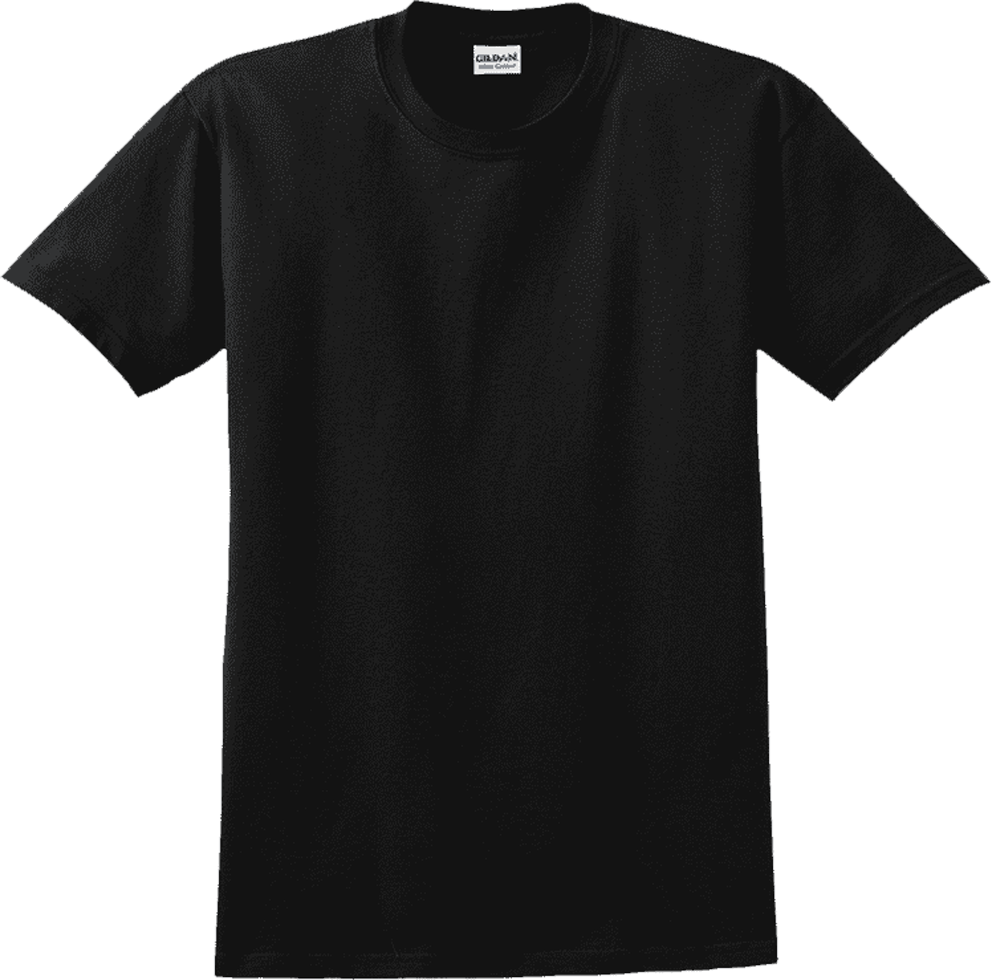
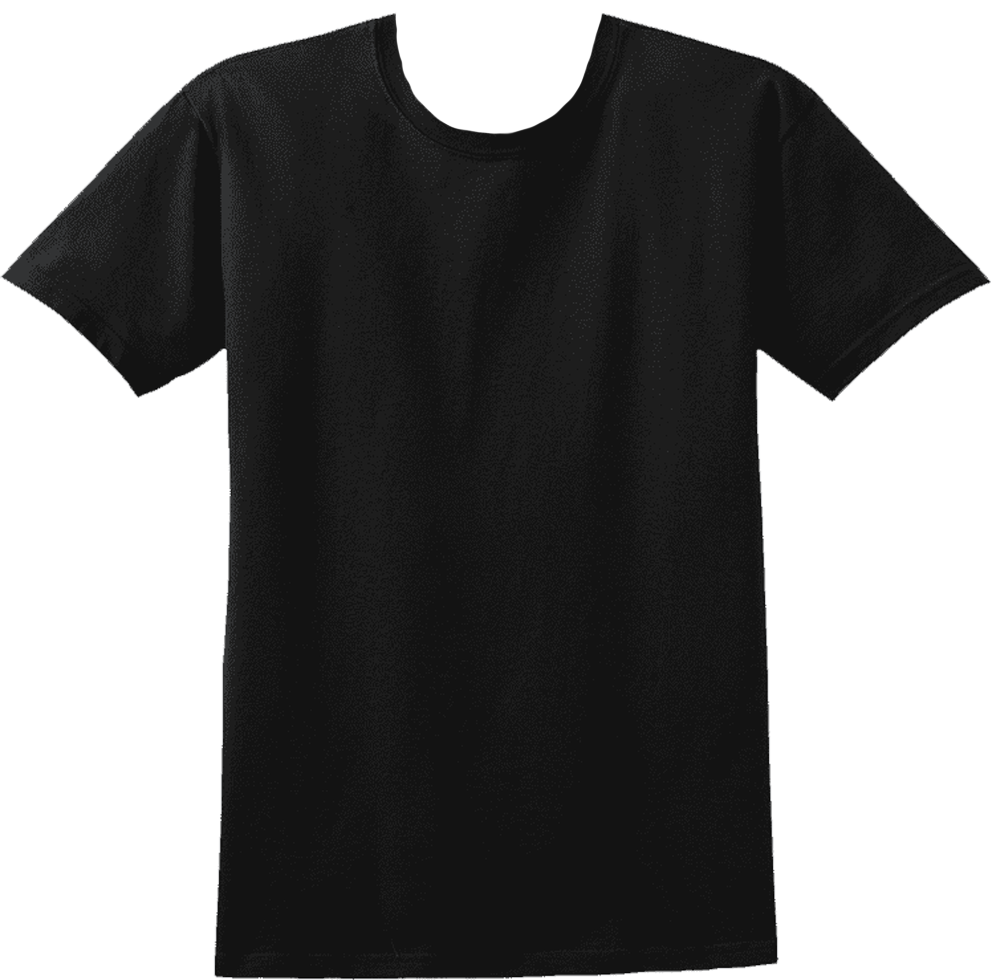
feat: add rotation and image scaling to the mapping; fix: change eslint config

Changed region(s): [[0.3935, 0.0, 0.6054, 0.1531]]

diff --git a/src/App.vue b/src/App.vue
@@ -3,7 +3,7 @@ import { onMounted, onBeforeMount } from "vue";
 import * as poseDetection from "@tensorflow-models/pose-detection";
 import "@tensorflow/tfjs-backend-webgl";
 
-const fps = 10;
+const fps = 20;
 let width: number; //640 - 1200 (real)
 let height: number; //480 - 675 (real)
 const detectorConfig = {
@@ -160,30 +160,30 @@ const showTshirt = (distance: number) => {
     const ctx: CanvasRenderingContext2D = canvas.getContext(
         "2d"
     ) as CanvasRenderingContext2D;
-    // const factor = distance / img.width;
-    // if (factor > 0) {
-    //     // console.log(factor);
-    //     // img.width = distance;
-    //     // img.height = img.height * factor;
-    //     ctx.scale(factor, 1);
-    //     ctx.drawImage(img, leftShoulder.x, leftShoulder.y);
-    //     ctx.scale(1 / factor, 1 / factor);
-    //     // console.log(leftShoulder.x, leftShoulder.y);
-    //     // drawCircle(leftShoulder.x, leftShoulder.y);
-    // }
-
-    const factor = canvas.height / img.height;
-    const newWidth = img.width * factor;
-    const newHeight = img.height * factor;
-    const quarterWidth = img.width / 4;
+    const scale = (distance / img.width) * 2;
+    // console.log(scale);
+    // rotate the image around top center point based on the angle between the shoulders and the horizontal
+    const angle =
+        Math.atan2(
+            rightShoulder.y - leftShoulder.y,
+            rightShoulder.x - leftShoulder.x
+        ) + Math.PI;
+    ctx.translate(leftShoulder.x, leftShoulder.y);
+    ctx.rotate(angle);
+    const newWidth = img.width * scale;
+    const newHeight = img.height * scale;
+    // console.log(leftShoulder.x - rightShoulder.x);
     ctx.drawImage(
         img,
-        // canvas.width / 2 - quarterWidth,
-        leftShoulder.x - 10 - quarterWidth,
-        rightShoulder.y - 50,
+        -(canvas.width * scale) - 40,
+        // -(leftShoulder.x - rightShoulder.x),
+        -50,
         newWidth,
         newHeight
     );
+    ctx.rotate(-angle);
+    ctx.translate(-leftShoulder.x, -leftShoulder.y);
+    // ctx.scale(1 / scale, 1 / scale);
 };
 </script>
 
@@ -225,7 +225,7 @@ button {
 .canvasContainer {
     position: relative;
     width: 100%;
-    height: clamp(720px, 100vh, 850px);
+    height: clamp(480px, 100vh, 720px);
     margin: 0 auto;
     display: flex;
     justify-content: center;
@@ -235,6 +235,7 @@ button {
 .canvas--clothes {
     position: absolute;
     top: 20px;
+    border: 3px solid red;
 }
 
 .canvas--map {
